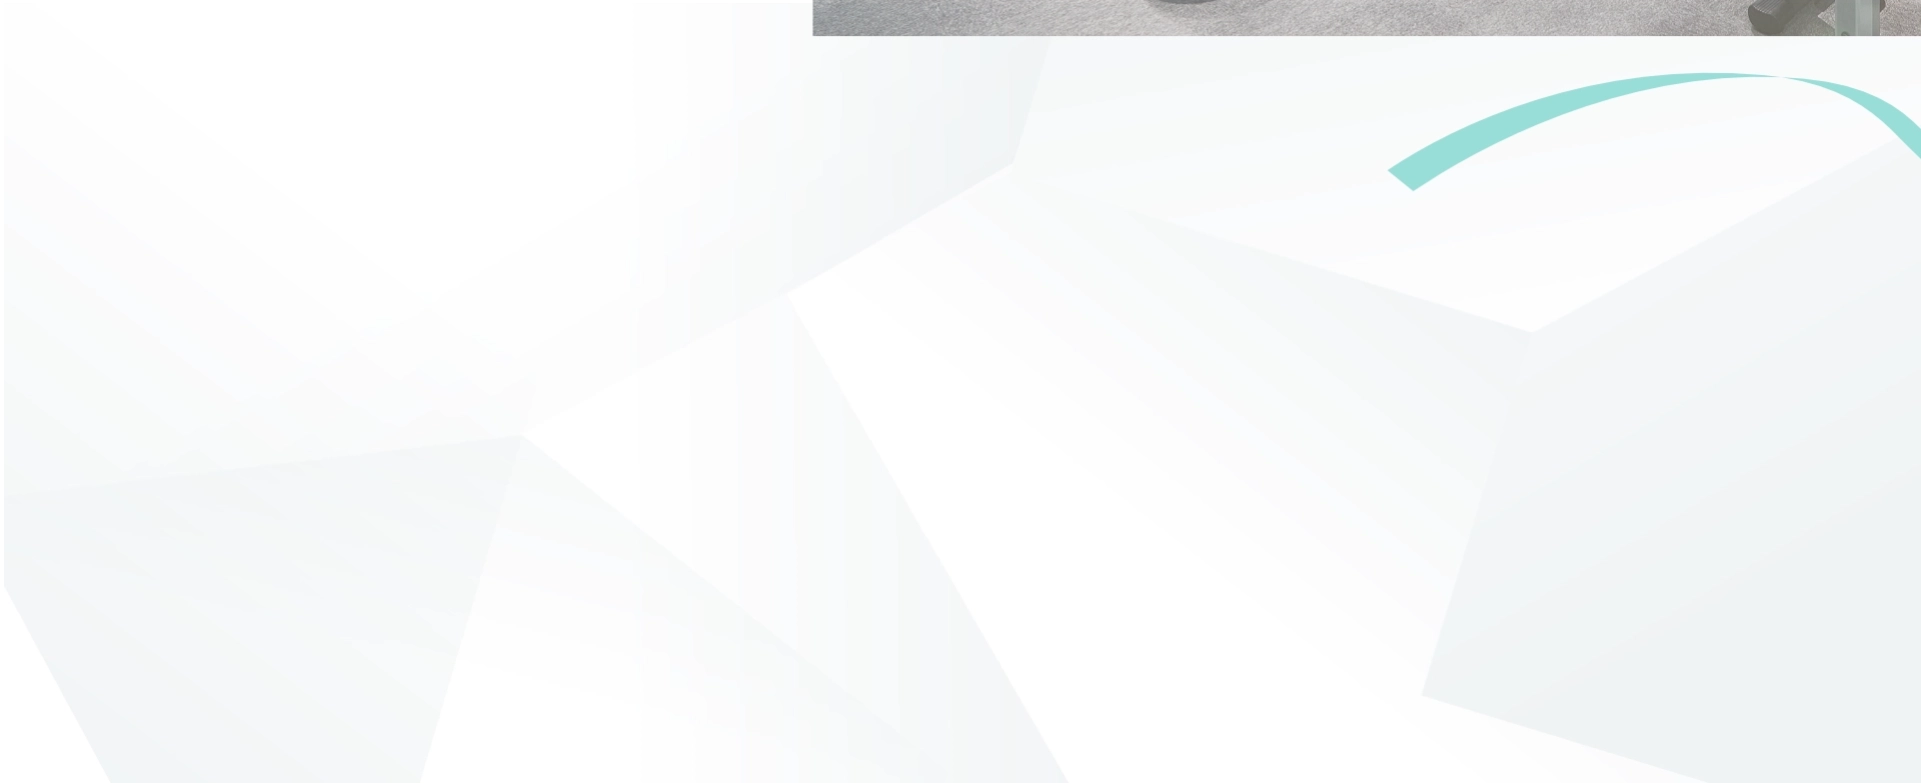
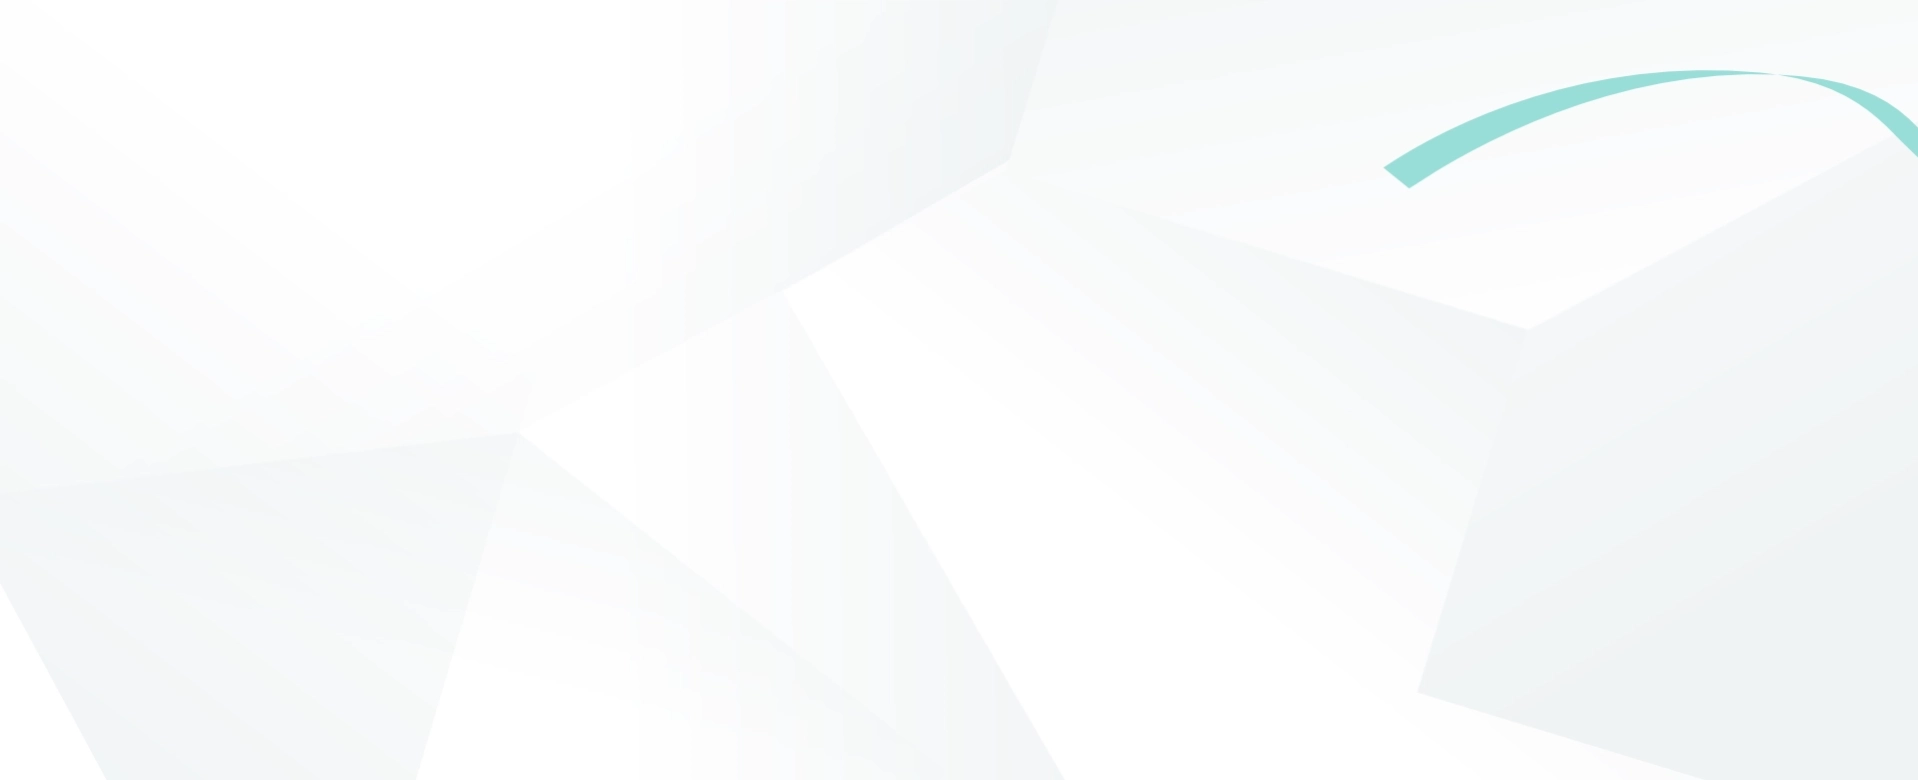
changes news bg

Changed region(s): [[0.3999, 0.0, 1.0, 0.0615], [0.7383, 0.0923, 0.9844, 0.2154]]

diff --git a/assets/css/top.css b/assets/css/top.css
@@ -59,7 +59,7 @@
 
 /*TOP NEWS SECTION*/
 .news-section {
-  background-image: url("/assets/img/top/bg_news_section.webp");
+  background-image: url("/assets/img/top/bg_news_section.svg");
   background-repeat: no-repeat;
   background-size: contain;
 }
